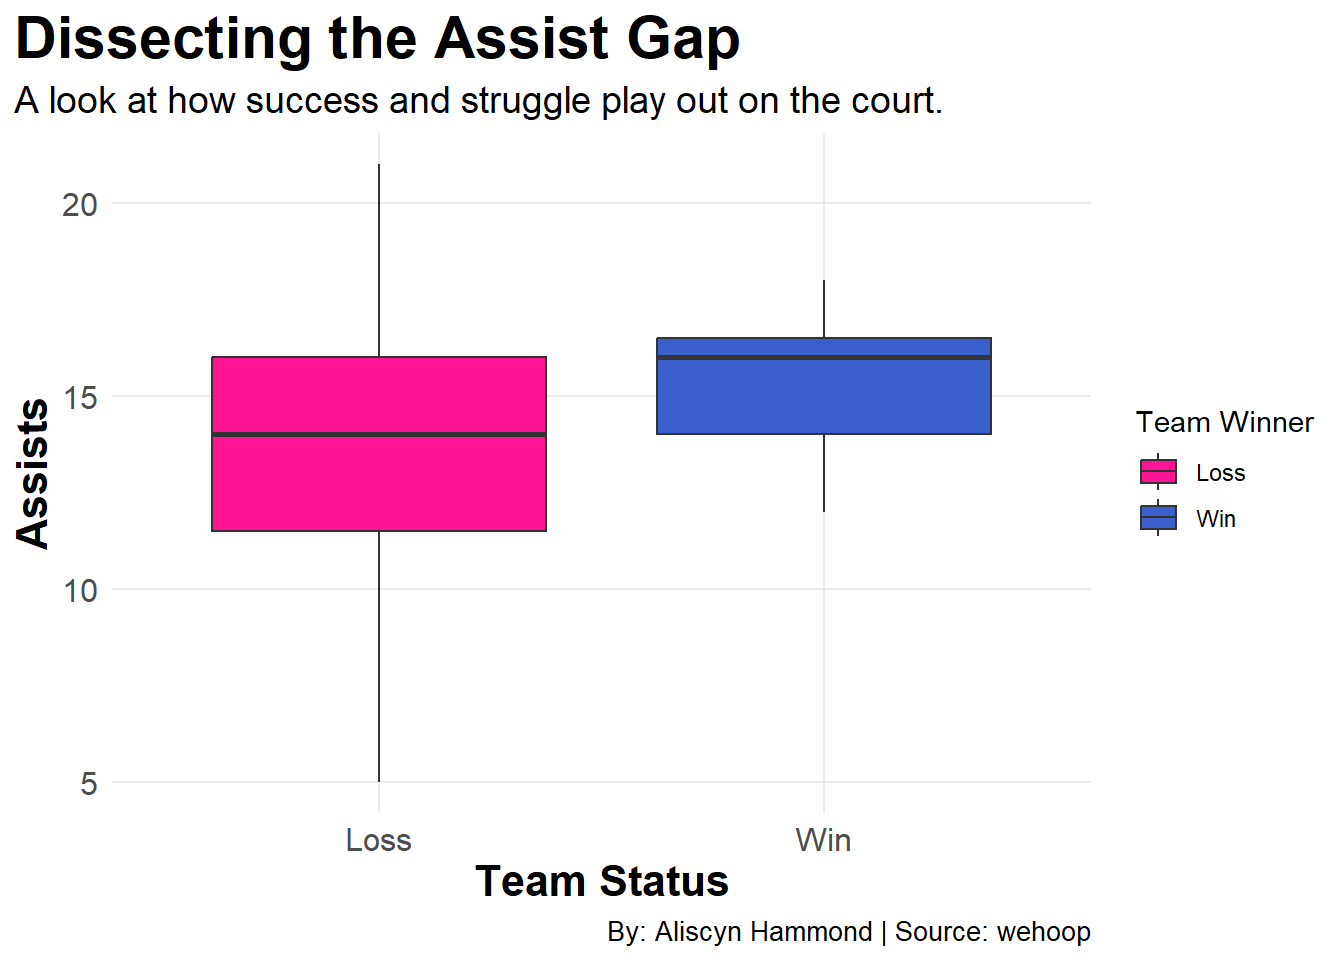
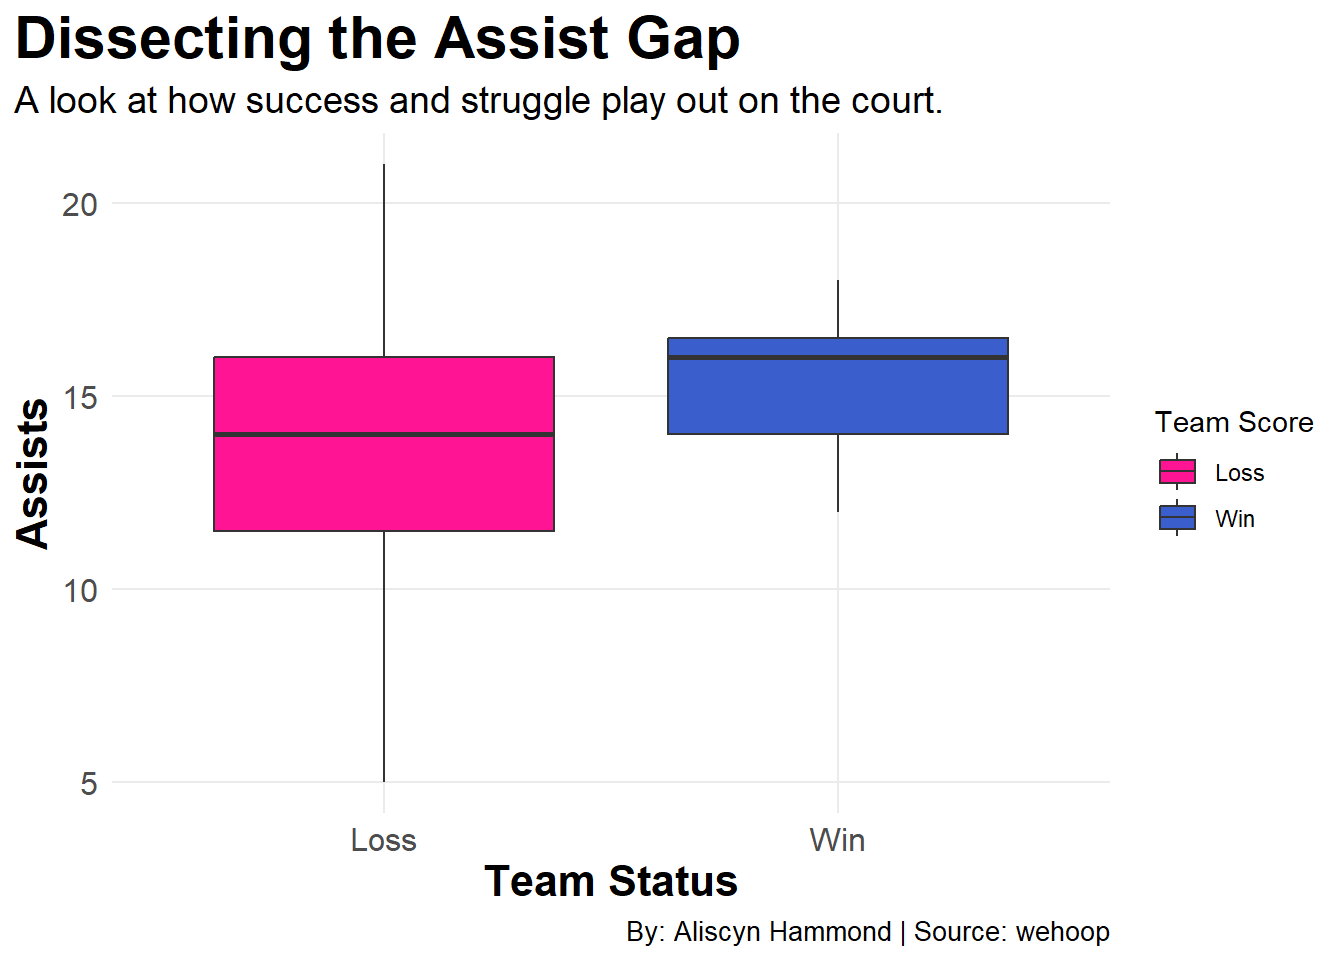
grammar fixes

diff --git a/posts/elite-eight-women-basketball/index.html b/posts/elite-eight-women-basketball/index.html
@@ -7,7 +7,7 @@
 <meta name="viewport" content="width=device-width, initial-scale=1.0, user-scalable=yes">
 
 <meta name="author" content="Aliscyn Hammond">
-<meta name="dcterms.date" content="2024-11-11">
+<meta name="dcterms.date" content="2024-11-17">
 
 <title>Is There a Relationship between a Number of Assists and Final Score in 2024 Women’s Elite Eight? – Aliscyn's Collection of Sport Stories</title>
 <style>
@@ -177,7 +177,7 @@ pre > code.sourceCode > span > a:first-child::before { text-decoration: underlin
       <div>
       <div class="quarto-title-meta-heading">Published</div>
       <div class="quarto-title-meta-contents">
-        <p class="date">November 11, 2024</p>
+        <p class="date">November 17, 2024</p>
       </div>
     </div>
     
@@ -197,9 +197,9 @@ pre > code.sourceCode > span > a:first-child::before { text-decoration: underlin
 
 
 <p>Whether a team’s ultimate score in the Elite Eight is correlated with the amount of assists they record is a subject that coaches, fans, and analysts alike are asking as the 2024 NCAA Women’s Basketball Tournament approaches its end. Assists have a reputation as indicators of good team play and offensive cooperation, but how do they relate to the outcome of games at such a high level of competition? We will explore the relationship between assists and final score, compare winning teams’ assists with losing teams, and find the distribution of assists for winning and losing teams.</p>
-<section id="the-importance-of-assists-in-womens-basketball" class="level1">
-<h1>The Importance of Assists in Women’s Basketball</h1>
-<p>In women’s basketball, like any sport, teamwork is an essential part of the sport. A team’s ability to share the ball, provide teammates with opportunities, and maintains offensive flow. If a team has a high assist total, it generally indicates that a team is communicates effectively, which leads to better offensive execution and higher percentage shots. With examining the data, we can evaluate if there is a relationship between a team’s ultimate score and amount of assists they produce and find any trends.</p>
+<section id="the-importance-of-assists-in-womens-basketball" class="level2">
+<h2 class="anchored" data-anchor-id="the-importance-of-assists-in-womens-basketball">The Importance of Assists in Women’s Basketball</h2>
+<p>In women’s basketball, like any sport, teamwork is an essential part of the sport. A team’s ability to share the ball, provide teammates with opportunities, and maintains offensive flow. If a team has a high assist total, it generally indicates that a team can communicates effectively, which leads to better offensive execution and higher percentage shots. With examining the data, we can evaluate if there is a relationship between a team’s ultimate score and amount of assists they produce and find any trends.</p>
 <div class="cell">
 <details class="code-fold">
 <summary>Code</summary>
@@ -250,11 +250,11 @@ pre > code.sourceCode > span > a:first-child::before { text-decoration: underlin
 </div>
 </div>
 <p>The scatterplot visualizes the relationship between the teams’ final scores and the number of assists they recorded in the 2024 Women’s Elite Eight. While there is a general upward trend indicating that teams with more assists tend to score higher, the plot also reveals variability. Notably, some teams recorded high assist numbers, but still lost the game, while others with fewer assists managed to secure a win.</p>
-<p>The variability suggests that while assists can be important for offensive’s success, they are not the sole determinant of the game’s outcome. That is where other outcome’s come into play, such as shooting efficiency, turnovers, or defense. The trend still suggests that strong teamwork and ball movement,as indicated by higher assist totals, often correlate with winning.</p>
+<p>The variability suggests that while assists can be important for offensive success, they are not the sole determinant of the game’s outcome. That is where other outcome’s come into play, such as shooting efficiency, turnovers, or defense. The trend still suggests that strong teamwork and ball movement, as indicated by higher assist totals, often correlate with winning.</p>
 </section>
-<section id="how-do-winning-teams-compare-to-losing-teams-in-assists" class="level1">
-<h1>How Do Winning Teams Compare to Losing Teams in Assists?</h1>
-<p>We may then contrast the average number of assists scored by winning and losing teams. This comparison may reveal that teams that win are generally better at creating scoring opportunities for one another, as evidence by their higher assist totals. A greater number of assists often indicates stronger ball movement and team cohesion, which are key factors for efficient offensive execution.</p>
+<section id="how-do-winning-teams-compare-to-losing-teams-in-assists" class="level2">
+<h2 class="anchored" data-anchor-id="how-do-winning-teams-compare-to-losing-teams-in-assists">How Do Winning Teams Compare to Losing Teams in Assists?</h2>
+<p>We may then contrast the average number of assists scored by winning and losing teams. This comparison may reveal that teams that win are generally better at creating scoring opportunities for one another, as evidenced by their higher assist totals. A greater number of assists often indicates stronger ball movement and team cohesion, which are key factors for efficient offensive execution.</p>
 <div class="cell">
 <details class="code-fold">
 <summary>Code</summary>
@@ -308,11 +308,11 @@ pre > code.sourceCode > span > a:first-child::before { text-decoration: underlin
 </div>
 </div>
 <p>The bar chart displays the number of assists for teams based on their performance in the games against Elite Eight opponents. Teams that won all their games in the Elite Eight are represented by one bar, while teams that lost all their games have another, For teams with a split result (one win and one loss), a noticeable trend arises: the game in which they won generally had fewer assists, with the exception of UConn, who recorded more assists in their winning game. Notably, Iowa and NC State were the only two teams that had fewer assists in their winning games compared to their losing games.</p>
-<p>While winning teams generally had a higher average assist totals, there wasn’t a clear, direct correlation between assists and victory. Some teams with high assists still lost, suggesting that assists alone do not guarantee success.Assists are critical for creating scoring opportunities, but do not ensure those opportunities are converted into points.As we saw Iowa and NC State had few assists and still won which could lead to looking into other details like relying on individual performances or strong defense, which allows them to secure victories despite lower assist numbers.</p>
+<p>While winning teams generally had higher average assist total, there wasn’t a clear, direct correlation between assists and victory. Some teams with high assists still lost, suggesting that assists alone do not guarantee success. Assists are critical for creating scoring opportunities, but do not ensure those opportunities are converted into points. As we saw Iowa and NC State had few assists and still won which could lead to looking into other details like relying on individual performances or strong defense, which allows them to secure victories despite lower assist numbers.</p>
 </section>
-<section id="assists-distribution-a-more-deeper-look-into-variability" class="level1">
-<h1>Assists Distribution: A More Deeper Look into Variability</h1>
-<p>Now let’s explore the distribution of assists among winning and losing teams in greater detail. Instead of merely focusing on the averages, we can analyze the spread of assists within each team to better understand variability. Do winning teams consistently excel at ball distribution, or do their assist figures fluctuate more than anticipated? To help us understand this, we will use a boxplot, which will show us the range of assists for both winning and losing teams. Using this will highlight where most teams fall in terms of assists, as well as show any outliers- teams with unusually high or low assist numbers. The distribution of assists and whether there is a discernible difference between winning and losing teams will be more clear.</p>
+<section id="assists-distribution-a-more-deeper-look-into-variability" class="level2">
+<h2 class="anchored" data-anchor-id="assists-distribution-a-more-deeper-look-into-variability">Assists Distribution: A More Deeper Look into Variability</h2>
+<p>Now let’s explore the distribution of assists among winning and losing teams in greater detail. Instead of merely focusing on the averages, we can analyze the spread of assists within each team to better understand variability. Do winning teams consistently excel at ball distribution, or do their assist figures fluctuate more than anticipated? To help us understand this, we will use a boxplot, which will show us the range of assists for both winning and losing teams. Using this will highlight where most teams fall in terms of assists, as well as show any outliers—teams with unusually high or low assist numbers. The distribution of assists and whether there is a discernible difference between winning and losing teams will be more clear.</p>
 <div class="cell">
 <details class="code-fold">
 <summary>Code</summary>
@@ -327,7 +327,7 @@ pre > code.sourceCode > span > a:first-child::before { text-decoration: underlin
 <span id="cb3-9"><a href="#cb3-9" aria-hidden="true" tabindex="-1"></a>       <span class="at">y =</span> <span class="st">"Assists"</span>,</span>
 <span id="cb3-10"><a href="#cb3-10" aria-hidden="true" tabindex="-1"></a>       <span class="at">caption =</span> <span class="st">"By: Aliscyn Hammond | Source: wehoop"</span>) <span class="sc">+</span></span>
 <span id="cb3-11"><a href="#cb3-11" aria-hidden="true" tabindex="-1"></a>  <span class="fu">scale_fill_manual</span>(<span class="at">values =</span> <span class="fu">c</span>(<span class="st">"deeppink"</span>, <span class="st">"royalblue3"</span>),</span>
-<span id="cb3-12"><a href="#cb3-12" aria-hidden="true" tabindex="-1"></a>                    <span class="at">name=</span> <span class="st">"Team Winner"</span>,</span>
+<span id="cb3-12"><a href="#cb3-12" aria-hidden="true" tabindex="-1"></a>                    <span class="at">name=</span> <span class="st">"Team Score"</span>,</span>
 <span id="cb3-13"><a href="#cb3-13" aria-hidden="true" tabindex="-1"></a>                    <span class="at">labels=</span><span class="fu">c</span>(<span class="st">"Loss"</span>,<span class="st">"Win"</span>)</span>
 <span id="cb3-14"><a href="#cb3-14" aria-hidden="true" tabindex="-1"></a>                    ) <span class="sc">+</span></span>
 <span id="cb3-15"><a href="#cb3-15" aria-hidden="true" tabindex="-1"></a>  <span class="fu">theme_minimal</span>()<span class="sc">+</span></span>
@@ -348,8 +348,8 @@ pre > code.sourceCode > span > a:first-child::before { text-decoration: underlin
 </div>
 </div>
 </div>
-<p>As it shows, there are differences in distribution. Winning teams tend to have a smaller, more tightly grouped range of assists, which is positioned higher on the scale of assists compared to the losing teams. The median of the winning teams is closer to the top of the box, while the median of the losing teams is more centered, indicating that winning teams generally record higher assists.Also, the shorter “stems” for the winning teams suggest that most winning teams have a more consistent level of assists, while the longer “stems of the losing teams imply a greater spread in assist values, with some losing teams recording unusually high assists.Given this, the variability in assists among losing teams highlights that assists alone are not enough to ensure victory, suggesting that other factors more than likely influence the outcome of a game.</p>
-<p>While assists are a vital part of basketball and correlate with team scoring, they do not guarantee victory. Some losing teams record high assists, indicating the ball movement alone is not enough to win. The variability we have seen shows that the assist distribution of both winning and losing teams suggests that winning is determined by broader set of factors, including but not limited to, shooting accuracy, turnovers, defense, and ability to execute under pressure. The analysis of assists in the 2024 Women’s Elite Eight provides a glimpse into how team play influences game outcomes, but it also reinforces the idea that basketball is a multi-faceted sport. Success on the court depends not just on assists but on all variety of elements working together. By exploring additional data and using statistical techniques, anyone can gain a deeper understanding of the complex nature of sport performance and truly find the true drivers of success.</p>
+<p>As it shows, there are differences in distribution. Winning teams tend to have a smaller, more tightly grouped range of assists, which is positioned higher on the scale of assists compared to the losing teams. The median of the winning teams is closer to the top of the box, while the median of the losing teams is more centered, indicating that winning teams generally record higher assists. Also, the shorter “stems” for the winning teams suggest that most winning teams have a more consistent level of assists, while the longer “stems of the losing teams imply a greater spread in assist values, with some losing teams recording unusually high assists. Given this, the variability in assists among losing teams highlights that assists alone are not enough to ensure victory, suggesting that other factors more than likely influence the outcome of a game.</p>
+<p>While assists are a vital part of basketball and correlate with team scoring, they do not guarantee victory. Some losing teams record high assists, indicating the ball movement alone is not enough to win. The variability we have seen shows that the assist distribution of both winning and losing teams suggesting that winning is determined by broader set of factors, including but not limited to, shooting accuracy, turnovers, defense, and ability to execute under pressure. The analysis of assists in the 2024 Women’s Elite Eight provides a glimpse into how team play influences game outcomes, but it also reinforces the idea that basketball is a multi-faceted sport. Success on the court depends not just on assists, but on all variety of elements working together. By exploring additional data and using statistical techniques, anyone can gain a deeper understanding of the complex nature of sport performance and truly find the true drivers of success.</p>
 
 
 </section>

diff --git a/index.html b/index.html
@@ -210,7 +210,7 @@ window.Quarto = {
 
 <div class="quarto-listing quarto-listing-container-default" id="listing-listing">
 <div class="list quarto-listing-default">
-<div class="quarto-post image-right" data-index="0" data-categories="YmFza2V0YmFsbCx3b21lbiBzcG9ydHMsZWxpdGUgZWlnaHQ=" data-listing-date-sort="1731823200000" data-listing-file-modified-sort="1731898996546" data-listing-date-modified-sort="NaN" data-listing-reading-time-sort="9" data-listing-word-count-sort="1708">
+<div class="quarto-post image-right" data-index="0" data-categories="YmFza2V0YmFsbCx3b21lbiBzcG9ydHMsZWxpdGUgZWlnaHQ=" data-listing-date-sort="1731823200000" data-listing-file-modified-sort="1731899855697" data-listing-date-modified-sort="NaN" data-listing-reading-time-sort="9" data-listing-word-count-sort="1712">
 <div class="thumbnail">
 <p><a href="./posts/elite-eight-women-basketball/index.html" class="no-external"></a></p><a href="./posts/elite-eight-women-basketball/index.html" class="no-external">
 <p><img loading="lazy" src="./posts/elite-eight-women-basketball/image.png" class="thumbnail-image"></p>
